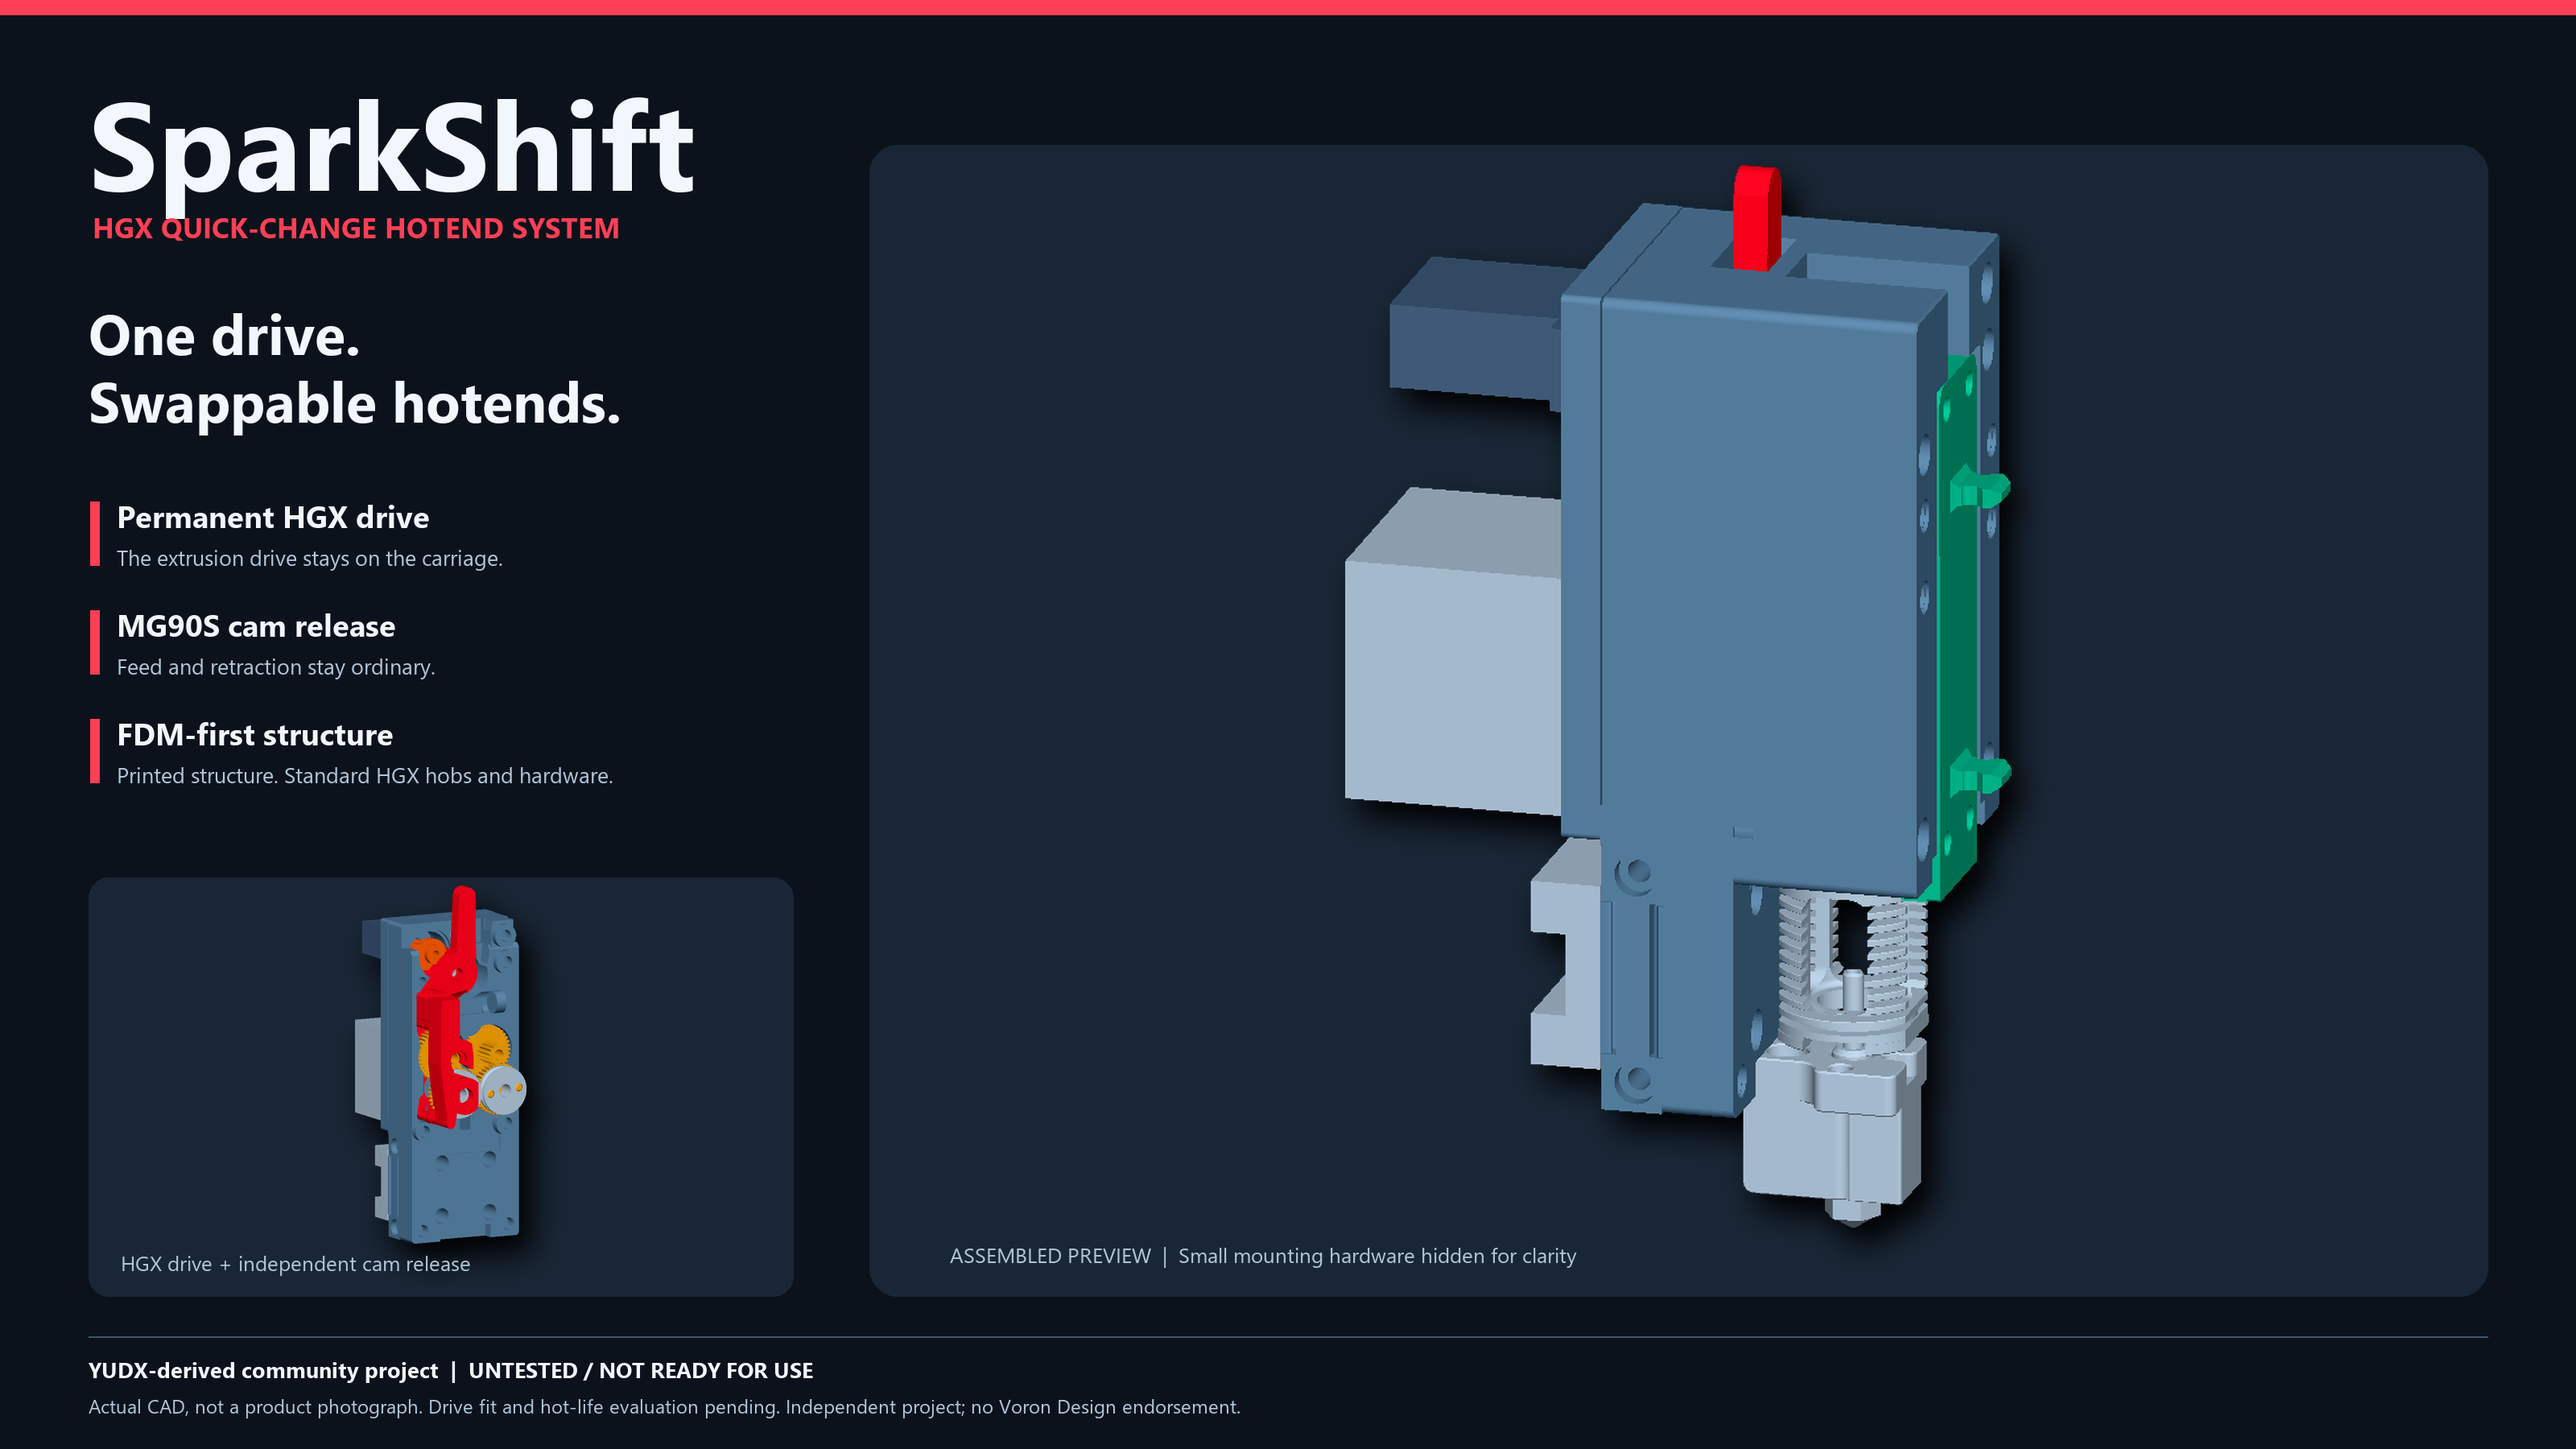
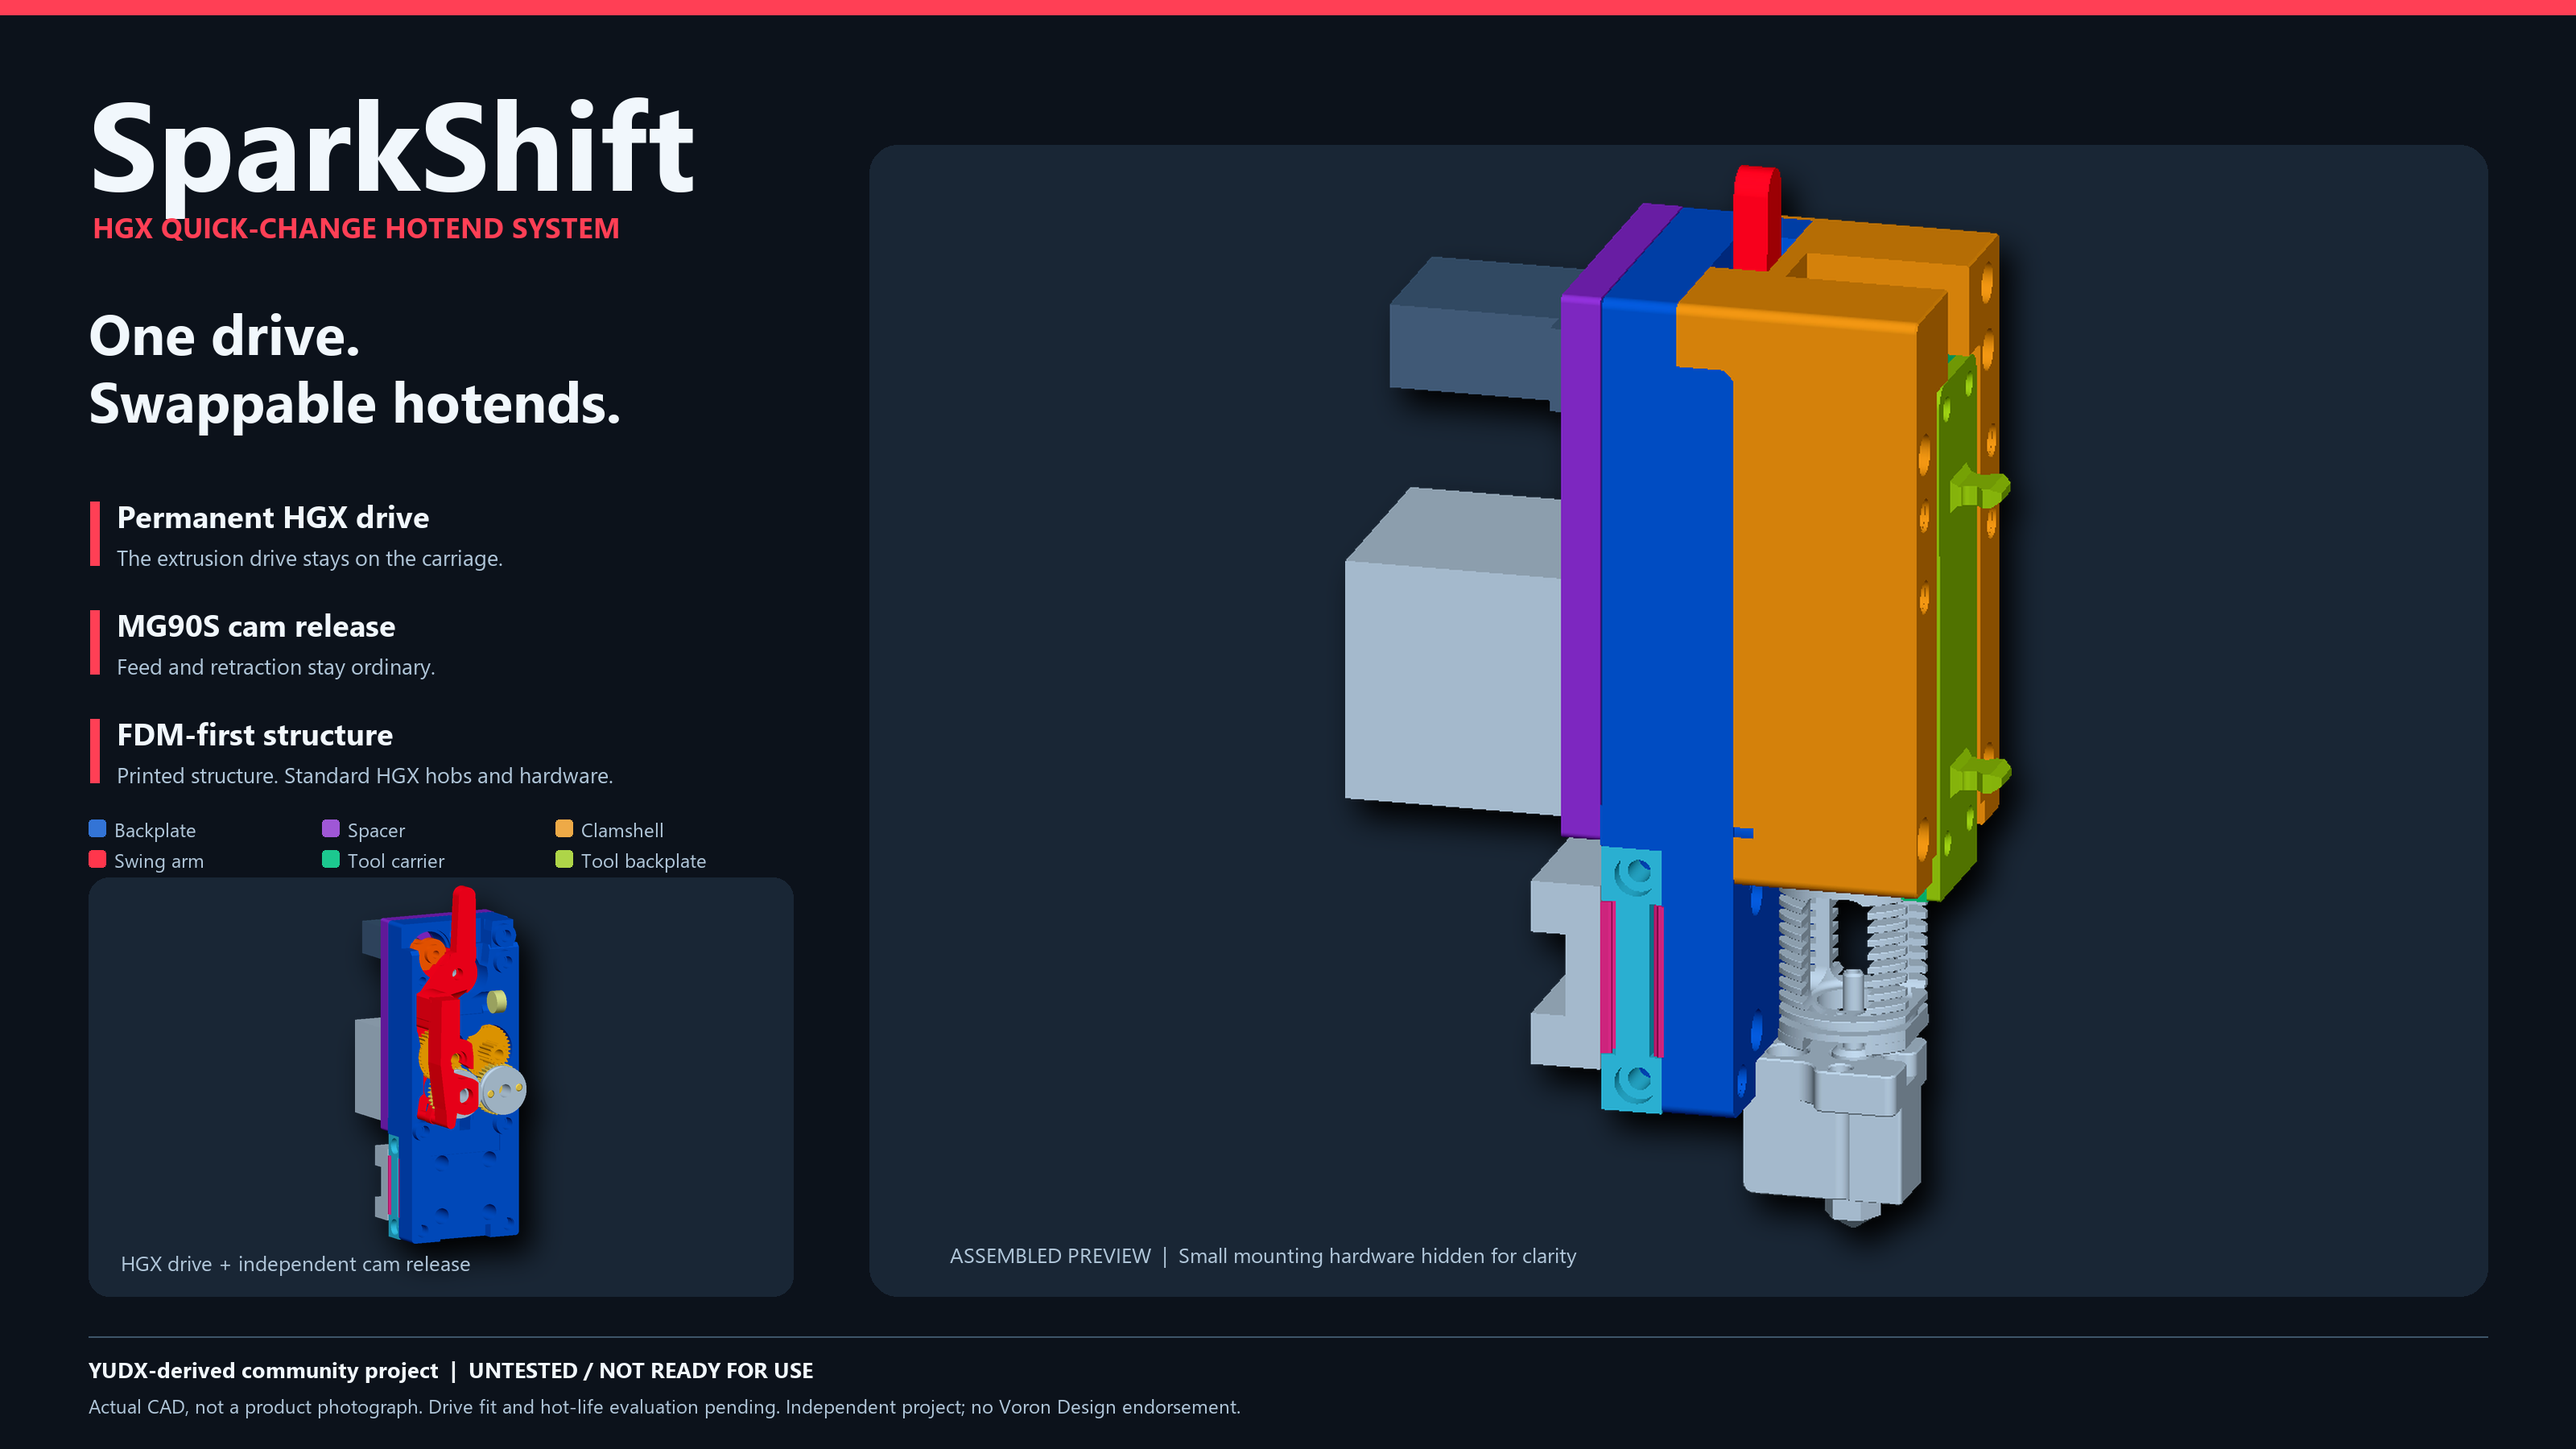
Distinguish preview parts with contrasting inspection colours
Replace only the current MG90S preview image and add its concise inspection colour key to the README. Keep native geometry, meshes, helper, BOM, WIP status and repository settings unchanged.

diff --git a/README.md b/README.md
@@ -25,6 +25,11 @@ engineering archive, production product, or official Voron project.
 
 ![SparkShift CAD concept assembly and mechanism inset](images/SparkShift_preview.png)
 
+**Image colour key:** blue P01 backplate; purple P02 motor/servo spacer;
+amber P03 front clamshell; red P04 swing arm; green P17 tool carrier; lime P18
+tool backplate. Belt arches are cyan, tooth liners pink, and gears/cam
+gold/orange. These are inspection identifiers, not required filament colours.
+
 CAD illustration, not a tested assembly or product photograph. Geometric,
 native CAD-motion, and export checks exist, but they are **not hardware tests or
 real-world qualification**. The presence of F3D/STEP/STL files and images does
